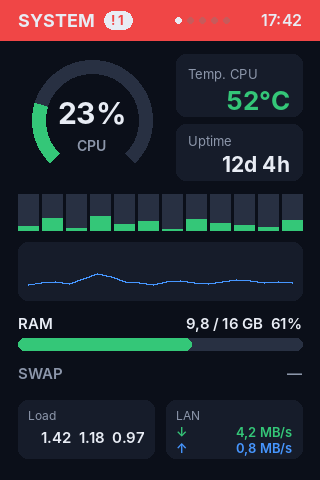
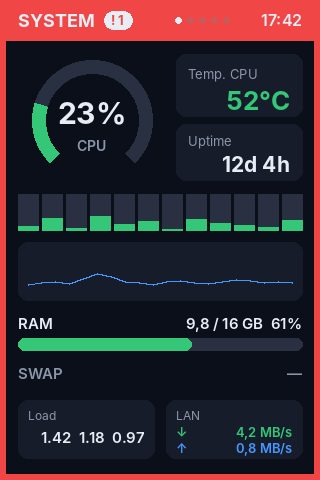
Alert krytyczny: czerwona ramka dookoła ekranu
Claude-Session: https://claude.ai/code/session_01KdmNeRTRFZRJ18TRbeokR1

Changed region(s): [[0.0, 0.0625, 1.0, 1.0]]

diff --git a/app/ekrany/rysuj.py b/app/ekrany/rysuj.py
@@ -103,6 +103,13 @@ def licznik_alertow(dane):
     return (sum(1 for a in alerty if a[0] == "alarm"), sum(1 for a in alerty if a[0] == "uwaga"))
 
 
+def obramowanie(img, dane):
+    """Przy alercie krytycznym czerwona ramka dookoła całego ekranu (6 px, mieści się w marginesie)."""
+    if licznik_alertow(dane)[0]:
+        ImageDraw.Draw(img).rectangle((0, 0, W - 1, H - 1), outline=KOLORY["alarm"], width=6)
+    return img
+
+
 def naglowek(d, tytul, indeks, dane):
     krytyczne, ostrzezenia = licznik_alertow(dane)
     # Alert krytyczny barwi nagłówek każdego ekranu na czerwono.
@@ -210,7 +217,7 @@ def ekran_system(t, dane):
     for dy, znak, wartosc, kolor in ((24, "↓", dane["rx"], KOLORY["ok"]), (40, "↑", dane["tx"], KOLORY["akcent"])):
         d.text((x, y + dy), znak, font=font(13, "SemiBold"), fill=kolor)
         d.text((W - M - 10, y + dy), wartosc, font=font(13, "SemiBold"), fill=kolor, anchor="ra")
-    return img
+    return obramowanie(img, dane)
 
 
 def ekran_dyski(t, dane):
@@ -239,7 +246,7 @@ def ekran_dyski(t, dane):
         if aktywny:
             d.text((W - M - 78, y + 17), "SMART", font=font(11, "SemiBold"),
                fill=KOLORY[smart] if smart != "ok" else KOLORY["szary"], anchor="rm")
-    return img
+    return obramowanie(img, dane)
 
 
 def ekran_docker(t, dane):
@@ -264,7 +271,7 @@ def ekran_docker(t, dane):
         yy = y + 24 + i * 26
         d.ellipse((M + 2, yy + 4, M + 12, yy + 14), fill=KOLORY[stan])
         d.text((M + 22, yy + 9), nazwa, font=font(15, "SemiBold"), fill=KOLORY["tekst"], anchor="lm")
-    return img
+    return obramowanie(img, dane)
 
 
 def ekran_parity(t, dane):
@@ -281,7 +288,7 @@ def ekran_parity(t, dane):
         karta(d, M, y, W - 2 * M, 44)
         d.text((M + 14, y + 22), etyk, font=font(15), fill=KOLORY["szary"], anchor="lm")
         d.text((W - M - 14, y + 22), wart, font=font(22, "Bold"), fill=kol, anchor="rm")
-    return img
+    return obramowanie(img, dane)
 
 
 def ekran_alerty(t, dane, puste=False):
@@ -291,7 +298,7 @@ def ekran_alerty(t, dane, puste=False):
         d.ellipse((W // 2 - 50, 170, W // 2 + 50, 270), outline=KOLORY["ok"], width=8)
         d.line([(W // 2 - 24, 222), (W // 2 - 6, 240), (W // 2 + 26, 204)], fill=KOLORY["ok"], width=9)
         d.text((W // 2, 300), t["brak_alertow"], font=font(20, "SemiBold"), fill=KOLORY["tekst"], anchor="mm")
-        return img
+        return img  # pusty stan: brak alertów, więc bez ramki
     # Krytyczne zawsze na górze, potem ostrzeżenia; mieszczą się 4 karty.
     alerty = sorted(dane["alerty"], key=lambda a: 0 if a[0] == "alarm" else 1)[:4]
     krytyczne = any(a[0] == "alarm" for a in alerty)
@@ -311,7 +318,7 @@ def ekran_alerty(t, dane, puste=False):
         y += wys + 8
     if krytyczne:
         d.text((W // 2, H - M - 6), t["przypiety"], font=font(12, "SemiBold"), fill=KOLORY["szary"], anchor="mm")
-    return img
+    return obramowanie(img, dane)
 
 
 def wszystkie(jezyk="pl", dane=None):
